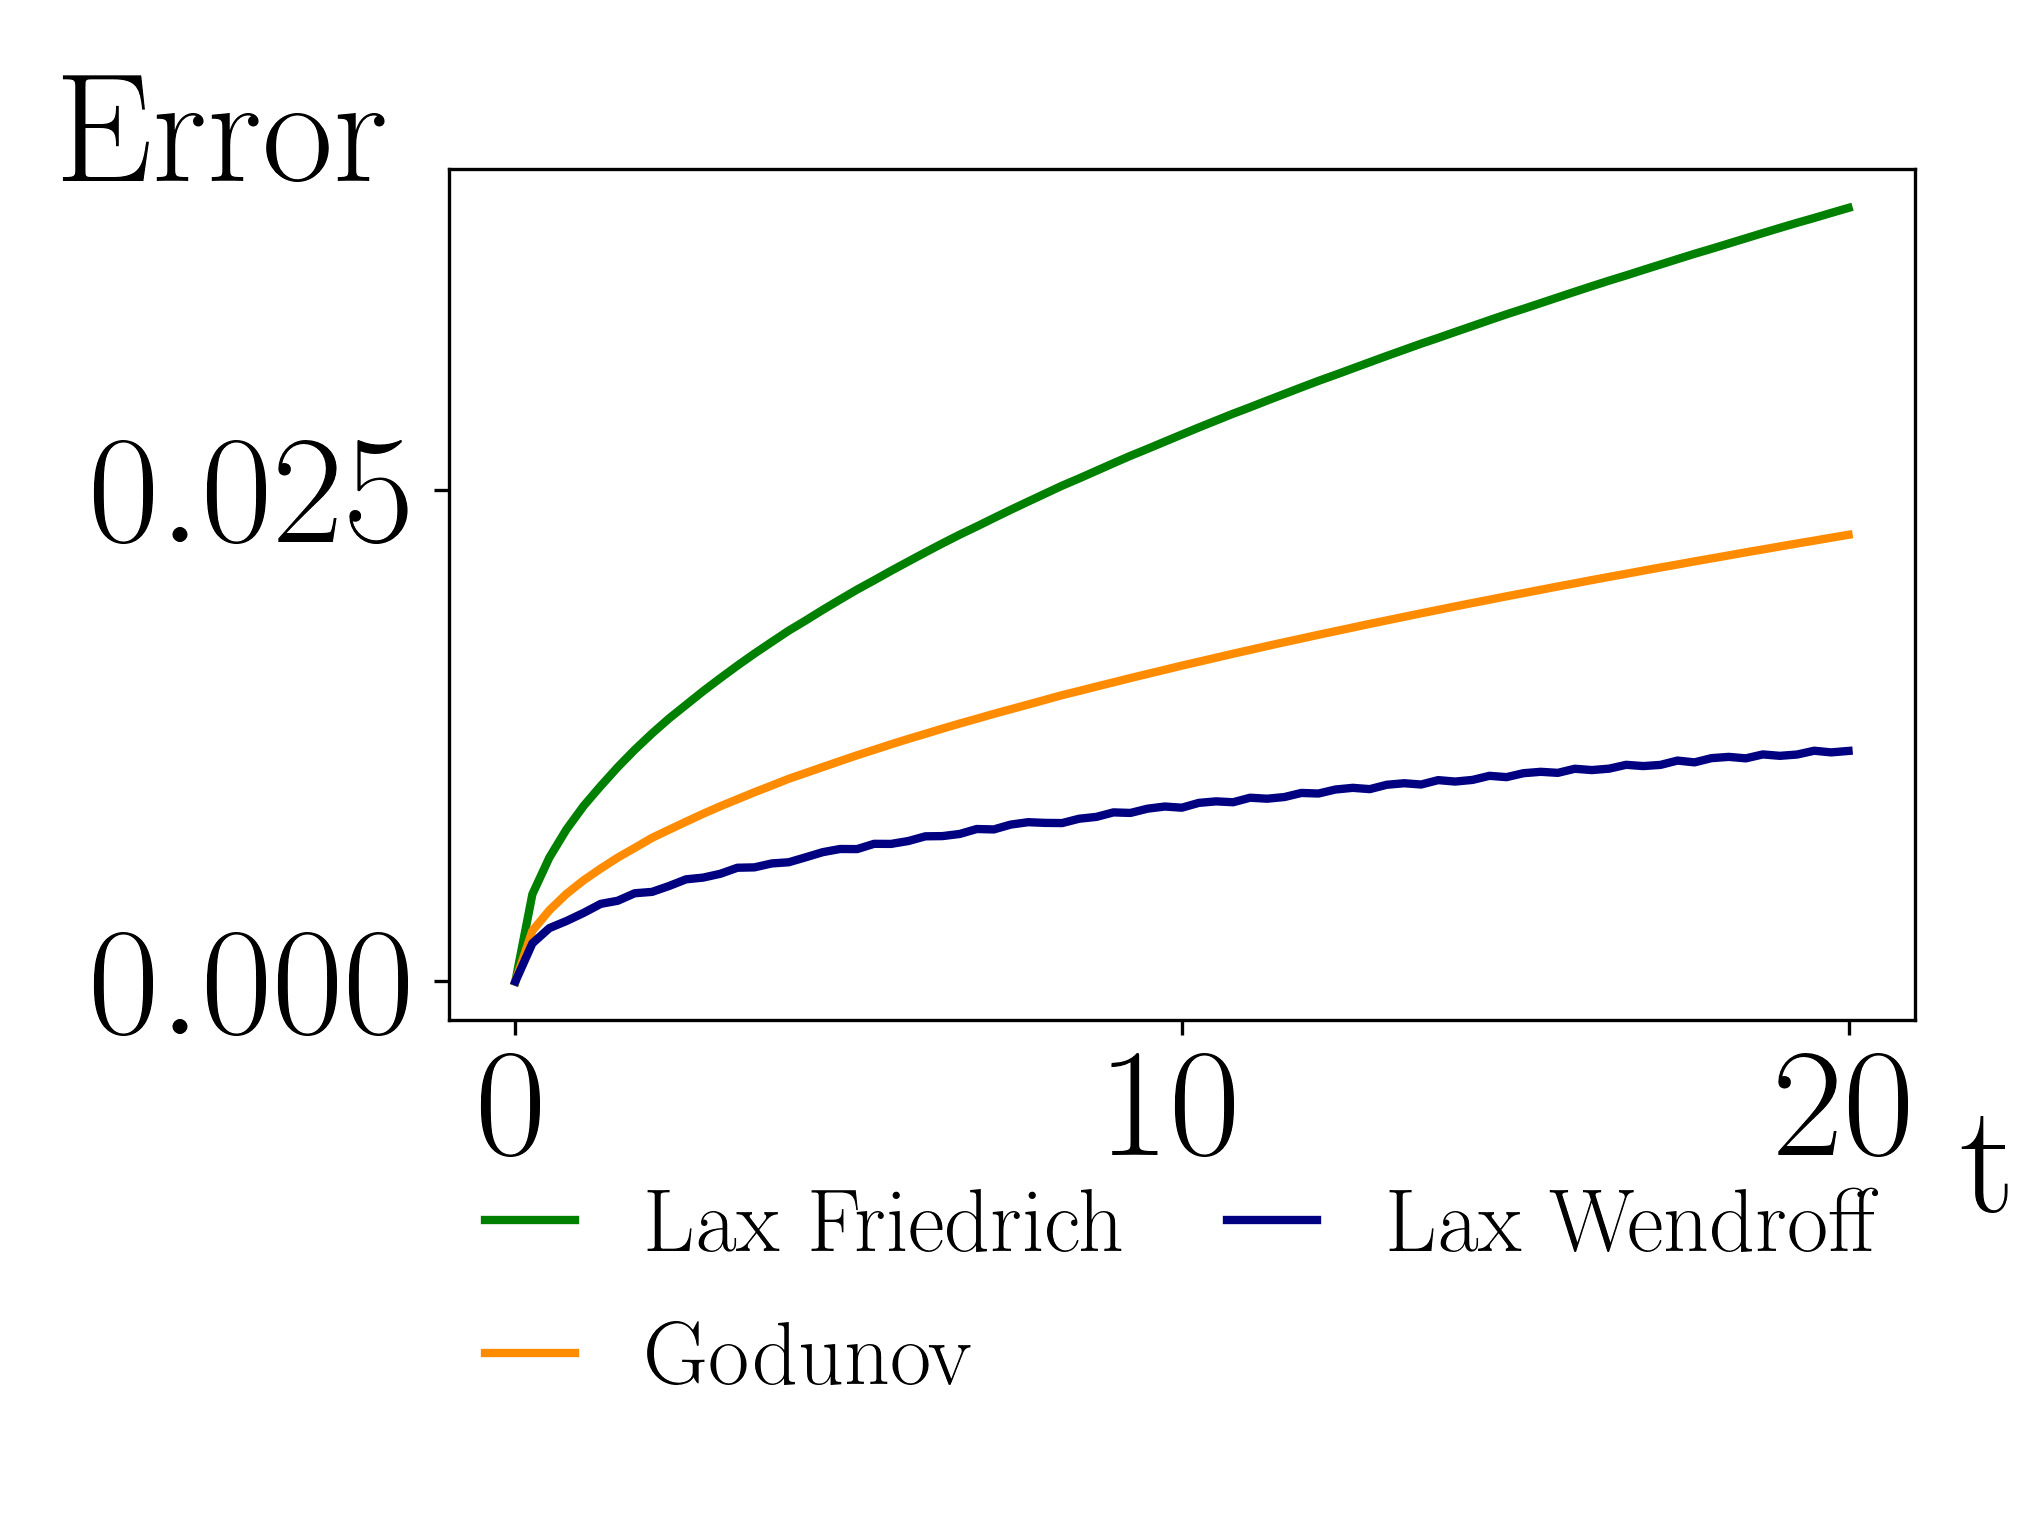
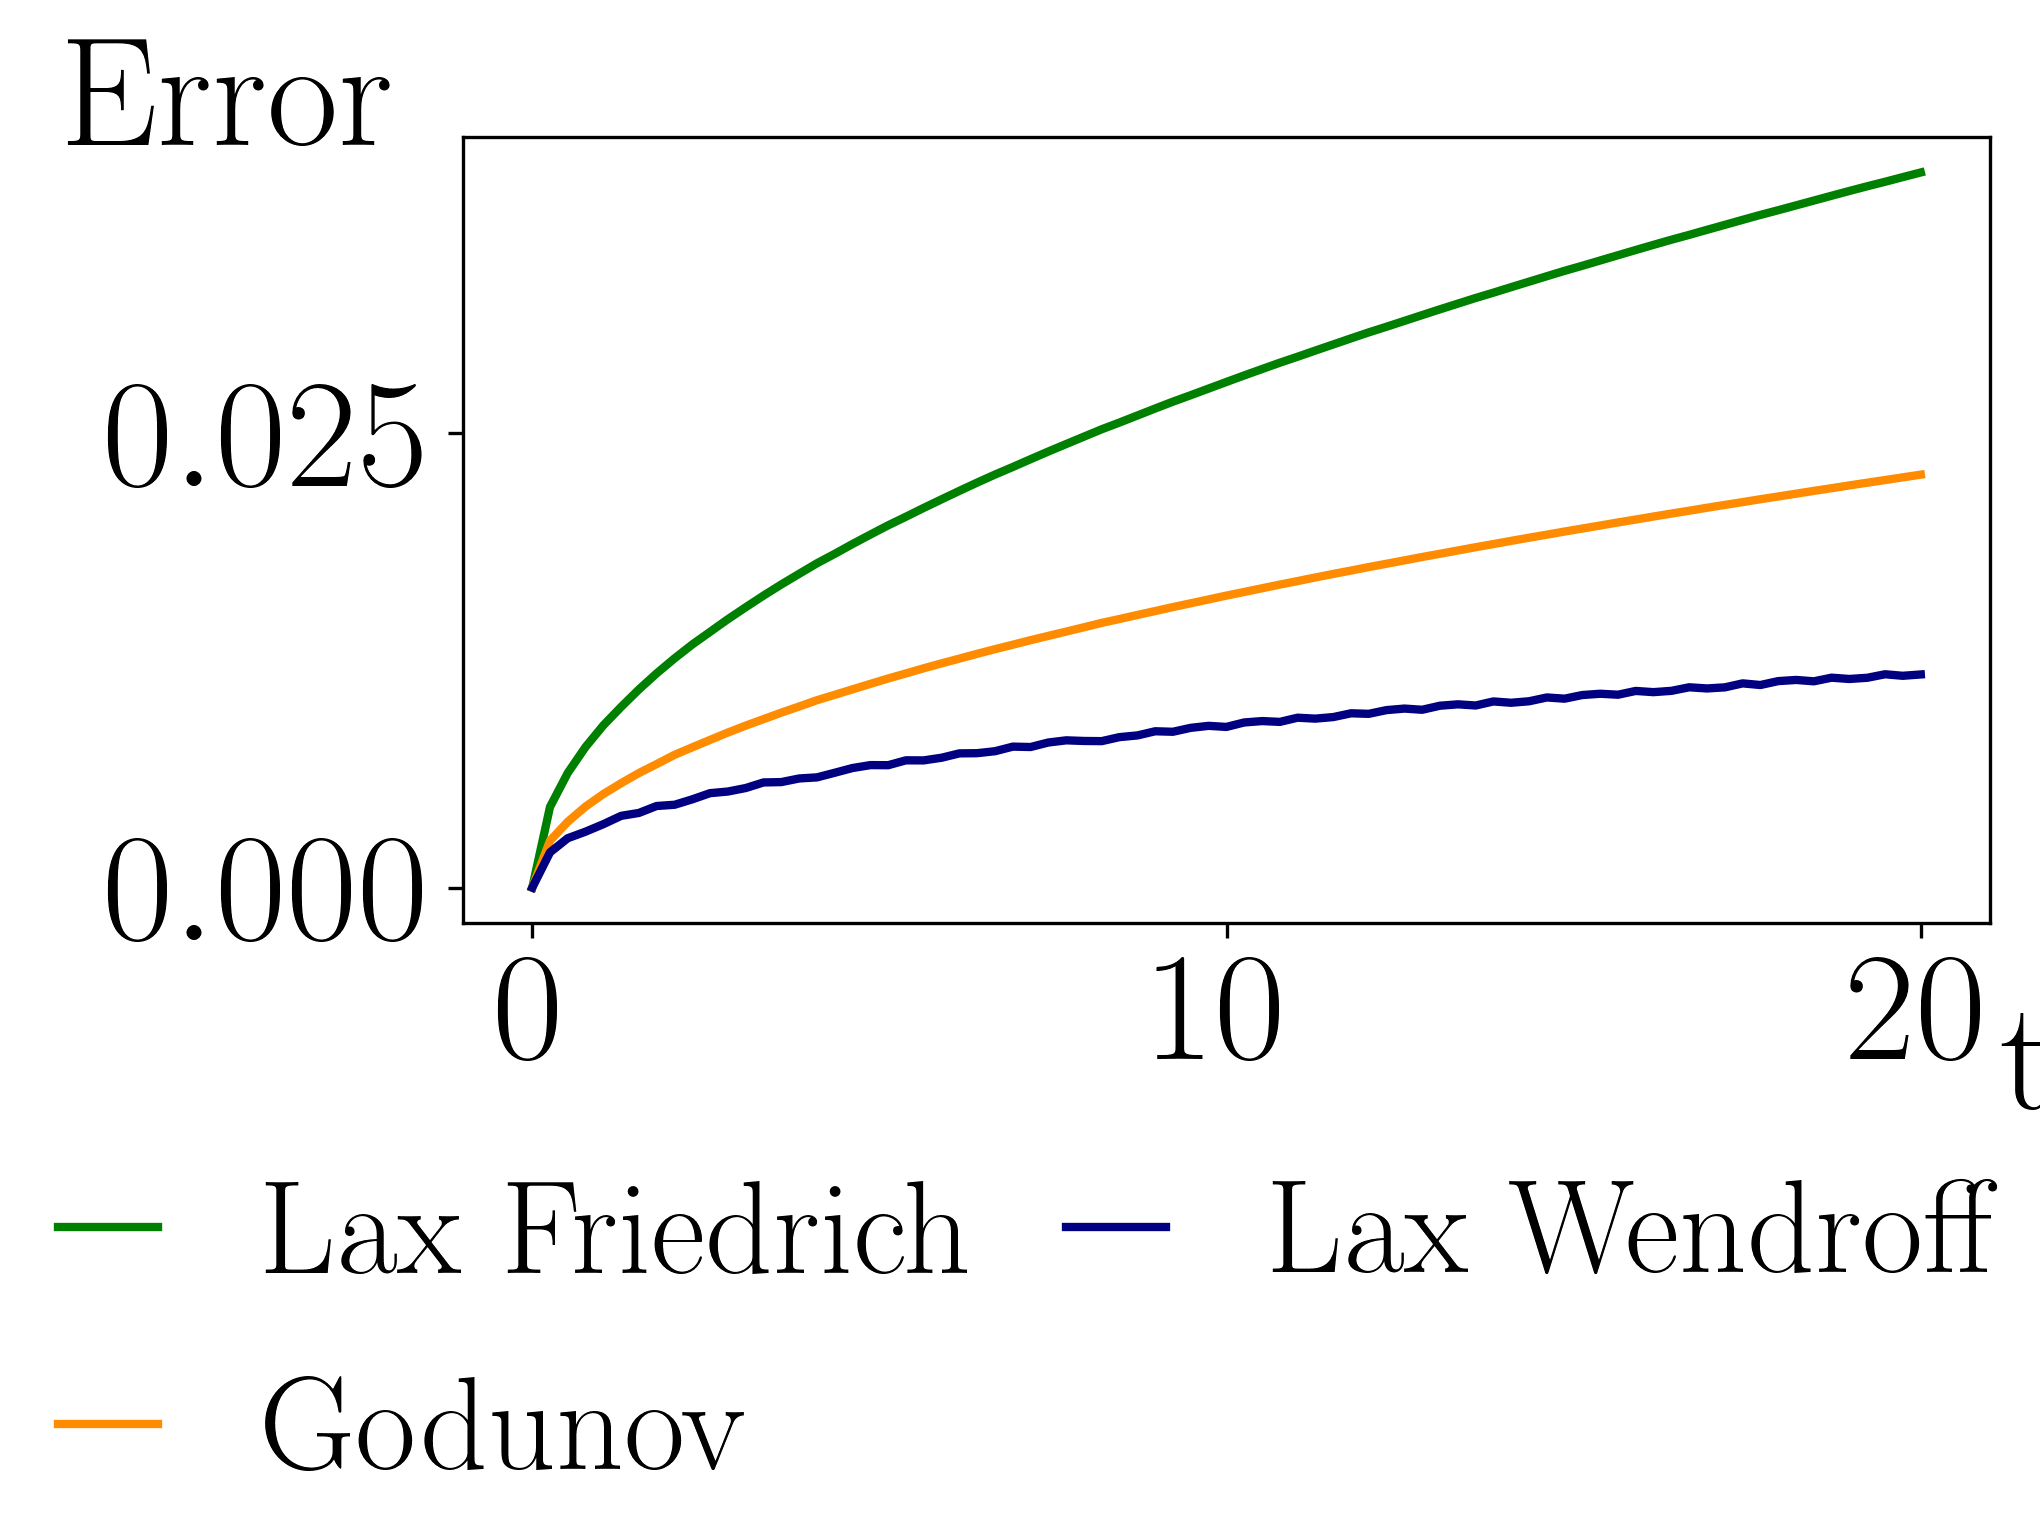
some more changes in the poster (still not the final edition, but maybe you want to look into it)

diff --git a/Poster-Latex/portrait.tex b/Poster-Latex/portrait.tex
@@ -102,7 +102,8 @@ A new second order scheme for hyperbolic conversation laws allowing fast and acc
 \textbf{Abstract}
 \vspace{0.5cm}
 
-We introduce a new method for hyperbolic conservations laws, which we call the Lax-Wendroff method. Based on the one-dimensional case we illustrate how our scheme works and compare it with other numerical methods. This leads us to the conclusion that the Lax-Wendroff scheme is superior to the currently used methods.
+{\fontsize{40}{15}\selectfont
+	We introduce a new method for hyperbolic conservations laws, which we call the Lax-Wendroff method. Based on the one-dimensional case we illustrate how our scheme works and compare it with other numerical methods. This leads us to the conclusion that the Lax-Wendroff scheme is superior to the currently used methods.}
 
 \vspace{0.5cm}
 \textbf{Introduction}
@@ -112,8 +113,7 @@ Hyperbolic conservation laws are time-dependent systems of PDE's describing the 
 \begin{align*}
     u_t + f(u)_x = 0
 \end{align*}
-Where $u(x,t)$ is the conserved quantity, such as mass, momentum or heat, while $f(u)$ is the flux function. 
-Flux functions are commonly nonlinear, leading to nonlinear systems of PDEs where, in general, the exact solution is unknown. Hence numerical methods are used, to compute an approximation. 
+Where $u(x,t)$ is the conserved quantity, such as mass, momentum or heat, while $f(u)$ is the flux function. Flux functions are commonly nonlinear, leading to nonlinear systems of PDEs where, in general, the exact solution is unknown. Hence numerical methods are used, to compute an approximation. 
 
 \vspace{0.5cm}
 This can be used to simulate traffic jams as we can see in \cref{img:traffic_flow_motivation}. In this case cars are moving from left to right, but the traffic jam moves in the opposite direction. 
@@ -136,7 +136,7 @@ where $k$ stepsize in time, $h$ stepsize in space and
 U_{j+\frac{1}{2}}^{n+\frac{1}{2}} =&~ \frac{1}{2} (U_j^n + U_{j+1}^n)\\
 &- \frac{k}{2h}[f(U_{j+1}^n) - f(U_j^n)].
 \end{align*}
-As known from the first oder schemes, the step size has to be chosen in a fixed ratio. This fact is motivated by the CFL condition of the linear case ($u_t + au_x = 0$), where we need $\frac{k}{h} \leq \frac{1}{|a|}$. 
+As known from the first order schemes, the step size has to be chosen in a fixed ratio. This fact is motivated by the CFL condition of the linear case ($u_t + au_x = 0$), where we need $|\nu| = \frac{k}{h} |a| < 1$. 
 %The computation of the next time step can be written as a function of the solution of the current timestep by $U^{n+1} = \mathcal{H}(U^n)$. This notation can be used to define the local truncation error of a method by
 %\begin{align*}
 %L_k(x, t) = \frac{u(x, t+k) - \mathcal{H}(u(\cdot, t); x)}{k}
@@ -149,15 +149,21 @@ Computing the local truncation error of Lax-Wendroff yields
 L_k(x, t) = &\frac{a}{6}(a^2 k^2 - h^2)u_{xxx} \\
 &+ \mathcal{O}(h^3) \text{,}
 \end{align*}
-therefore this is a consistent second order method. Additional for stability the condition $|\nu| < 1$ where $\nu = a\frac{k}{h}$ is the Courant number must be fulfilled. 
+therefore it is a consistent second order method. 
+%Additional for stability the condition $|\nu| < 1$ where $\nu = a\frac{k}{h}$ is the Courant number must be fulfilled. 
 In the case of a linear advection equation the convergence of a method follows from consistency and stability by the Lax equivalence theorem. For the nonlinear case it is proven that a consistent numerical method with bounded solutions always converges to a weak solution of the equation.
+
+\vspace{0.5cm}
 The local truncation error also leads to the modified equation which is given as:
 \begin{align*}
 u_t + a u_x &= \frac{a}{6} (a^2 k^2 - h^2) u_{xxx}\\
 &:= \mu u_{xxx}
 \end{align*}
 
-This is also a dispersive equation and a solution $u(x, t)$ of it can be represented in Fourier space. Isolating each wavenumber $\xi$ by applying solutions of the form $u(x,t) = e^{i(\xi x - c(\xi)t)}$ to the linear
+This is also a dispersive equation and a solution $u(x, t)$ of it can be represented in Fourier space. Isolating each wavenumber $\xi$ by applying solutions of the form $u(x,t) = e^{i(\xi x - c(\xi)t)}$ to the linear advection equation yields the dispersion relation:
+\begin{align*}
+c(\xi) = a\xi + \mu \xi^3
+\end{align*}
 
     \end{column}
 \end{column}
@@ -165,10 +171,6 @@ This is also a dispersive equation and a solution $u(x, t)$ of it can be represe
 \begin{column}{0.5\textwidth - 1.5cm}
 \vspace*{-1.7cm}
 
-advection equation yields the dispersion relation:
-\begin{align*}
-c(\xi) = a\xi + \mu \xi^3
-\end{align*}
 Based on this relation its possible to calculate the group velocity $c’(\xi)$ for wavenumber $\xi$ which describes in which speed a wave peak travel. It is given by:
 \begin{align*}
 c'(\xi) = a + 3\mu \xi^2
@@ -193,13 +195,15 @@ For the linear advection equation this gives the approximations shown in \cref{i
 As commented before the Lax-Wendroff scheme oscillates in front of the discontinuity of the true solution. But on the other hand the discontinuity is approximated more accurate what leads to a smaller error which is shown in \cref{img:error_over_time}. Also notice that Lax-Friedrichs looses height over time. 
 
 \vspace{0.5cm}
-Comparing the runtime of the methods to compute \cref{img:linar_comprehension} turns out that the Gudonov's one is by far the slowest which is due to its non-vectorized standard form.
+Comparing the runtime of the methods to compute \cref{img:linar_comprehension} it turns out that the Gudonov's one is by far the slowest which is due to its non-vectorized standard form.
+
+\vspace{0.5cm}
+Looking deeper into \cref{img:error_over_time} we can confirm that the Lax-Wendroff method has the lowest error as expected due to its higher order.
 
 \end{column}
 \begin{column}{0.5\textwidth - 1.5cm}
 	\vspace*{-1.7cm} 
-	
-Looking deeper into \cref{img:error_over_time} we can confirm that the Lax-Wendroff method has the lowest error as expected due to its higher order.
+
    
     \begin{figure}
     	\includegraphics{fig/error_over_time.png}
@@ -207,7 +211,7 @@ Looking deeper into \cref{img:error_over_time} we can confirm that the Lax-Wendr
     	\label{img:error_over_time}
     \end{figure}
 
-Looking at the Burger's and traffic equation in \cref{img:non_lin_equation}, the obtained result is still quite accurate and we can see similar behavior. Note again the predicted oscillations of Lax-Wendroff in front of to the discontinuity.
+Looking at the Burger's, the traffic and the Buckley-Leverett equation in \cref{img:non_lin_equation}, the obtained result is still quite accurate and we can see similar behavior. Note again the predicted oscillations of Lax-Wendroff in front of to the discontinuity.
 
 \begin{figure}
 	\begin{subfigure}{\textwidth}
@@ -217,7 +221,11 @@ Looking at the Burger's and traffic equation in \cref{img:non_lin_equation}, the
 	\begin{subfigure}{\textwidth}
 		\includegraphics{fig/burger_compare.png}
 	\end{subfigure}
-	\caption{Approximations for the traffic equation (top) and Burger's equation (bottom) at time $t = 5$.}
+
+	\begin{subfigure}{\textwidth}
+		\includegraphics{fig/buckley_compare.png}
+	\end{subfigure}
+	\caption{Approximations for the traffic equation (top), the Burger's equation (middel) and the Buckley-Leverett equation (bottom) at time $t = 5$.}
 	\label{img:non_lin_equation}
 \end{figure}
 

diff --git a/Python/compare_methods.py b/Python/compare_methods.py
@@ -12,8 +12,8 @@ plt.style.use(cwd + '/poster.mplstyle')
 
 save = True
 '~~~~~~~~~~ SELECT THE PROBLEM FUNCTIONS ~~~~~~~~~~'
-name_of_problem = 'traffic'
-#name_of_problem = 'linear'
+#name_of_problem = 'traffic'
+name_of_problem = 'linear'
 #name_of_problem = 'Burger'
 #name_of_problem = 'Buckley-Leverett'
 
@@ -29,6 +29,7 @@ name_of_init = 'police problem'
 #name_of_init = 'cos function 2'
 
 
+c = 4
 c = 1
 
 T = 5
@@ -63,7 +64,8 @@ if col_span == 2:
     matplotlib.rcParams['figure.figsize'] = (14.78636, 11.089770003)
 elif col_span == 1:
     lw = 2
-    matplotlib.rcParams['figure.figsize'] = (6.8025, 5.101875001*0.8)
+    #matplotlib.rcParams['figure.figsize'] = (6.8025, 5.101875001*0.8)
+    matplotlib.rcParams['figure.figsize'] = (6.8025, 5.101875001 * 1.05)
 
 i = 0
 colors = ['navy', 'darkorange', 'green']
@@ -84,6 +86,9 @@ elif name_of_problem == 'linear':
 if name_of_problem == 'Burger':
     plt.xlim([1, 5.2])
 
+if name_of_problem == 'Buckley-Leverett':
+    plt.xlim([0, 3.25])
+
 #plt.title('\\rmfamily\\bfseries Solutions', pad=15)
 plt.title('\\rmfamily\\bfseries ', pad=15,  fontsize=21.6)
 plt.xlabel('\\rmfamily Space')
@@ -92,10 +97,12 @@ plt.gca().xaxis.set_label_coords(0.89, -0.1)
 plt.ylabel('\\rmfamily Density', rotation=0)
 plt.gca().yaxis.set_label_coords(-0.15, 0.95)
 #plt.legend(bbox_to_anchor=(0., -0.35, 1., .102), loc='upper left',
-#            ncol=2, mode="expand", borderaxespad=0., handlelength=1., fontsize=21.6)
+# ncol=2, mode="expand", borderaxespad=0., handlelength=1., fontsize=25.6)
+plt.legend(bbox_to_anchor=(-0.3, -0.35, 1.34, .102), loc='upper left',
+ ncol=2, mode="expand", borderaxespad=0., handlelength=0.75, fontsize=32.)
 
 if save:
-    plt.savefig('figures/traffic_comprehension_.png', dpi=300)
+    plt.savefig('figures/linear_compare.png', dpi=300)
 plt.show()
 
 print(methods)

diff --git a/Python/convergence_test.py b/Python/convergence_test.py
@@ -101,12 +101,14 @@ plt.plot(time_list, error_laxW_l, label='\\rmfamily Lax Wendroff', color='navy',
 #plt.title('\\rmfamily\\bfseries Error over time', pad=15)
 plt.title('\\rmfamily\\bfseries ', pad=15, fontsize=21.6)
 plt.xlabel('\\rmfamily t')
-plt.gca().xaxis.set_label_coords(1.05, -0.1)
+plt.gca().xaxis.set_label_coords(1.025, -0.1)
 plt.ylabel('\\rmfamily Error', rotation=0)
 plt.gca().yaxis.set_label_coords(-0.15, 0.95)
-plt.legend(bbox_to_anchor=(0., -0.25, 1., .102), loc='upper left',
-            ncol=2, mode="expand", borderaxespad=0., handlelength=1., fontsize=21.6)
-plt.tight_layout()
+#plt.legend(bbox_to_anchor=(0., -0.25, 1., .102), loc='upper left',
+#            ncol=2, mode="expand", borderaxespad=0., handlelength=1., fontsize=21.6)
+plt.legend(bbox_to_anchor=(-0.3, -0.35, 1.34, .102), loc='upper left',
+ ncol=2, mode="expand", borderaxespad=0., handlelength=0.75, fontsize=32.)
+#plt.tight_layout()
 
 if save:
     plt.savefig('figures/error_over_time.png', dpi=300)

diff --git a/Python/traffic_flow.py b/Python/traffic_flow.py
@@ -6,10 +6,10 @@ import conversation_laws as step
 
 
 '~~~~~~~~~~ SELECT THE PROBLEM FUNCTIONS ~~~~~~~~~~'
-name_of_problem = 'traffic'
+#name_of_problem = 'traffic'
 #name_of_problem = 'linear'
 #name_of_problem = 'Burger'
-#name_of_problem = 'Buckley-Leverett'
+name_of_problem = 'Buckley-Leverett'
 
 
 '~~~~~~~~~~ SELECT THE METHOD ~~~~~~~~~~'
